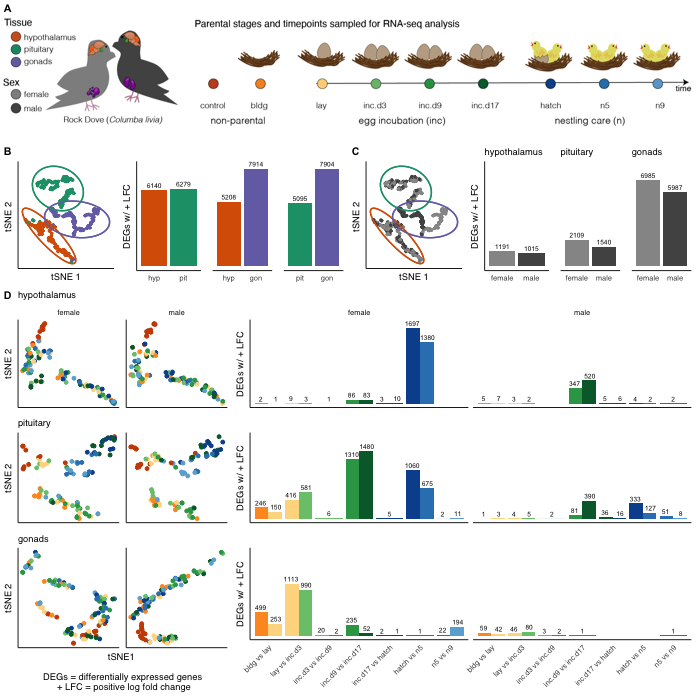
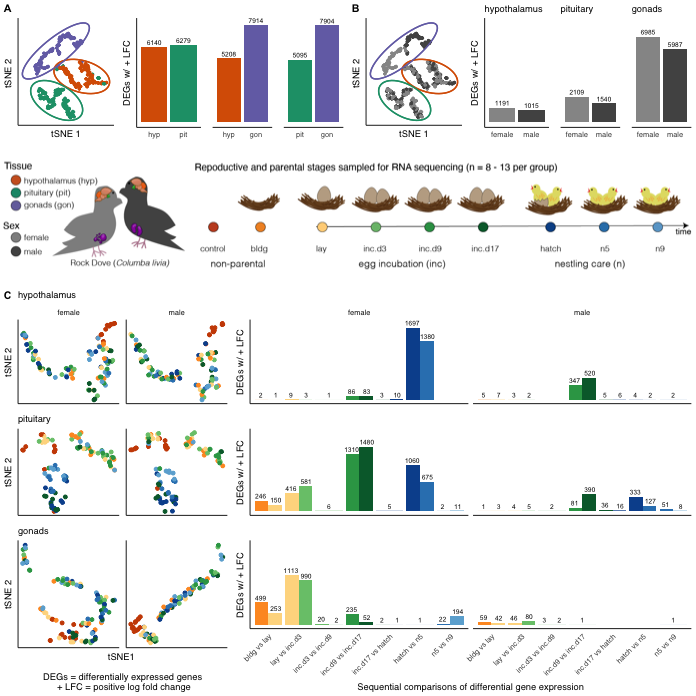
better fig 1

diff --git a/analysis/figure-1.md b/analysis/figure-1.md
@@ -165,7 +165,7 @@ Treatment specific DEGs
     ## 5 female hypothalam… control_lay    control   A2ML1 -0.674  1.39e-2    1.86
     ## 6 female hypothalam… control_n5     control   A2ML1 -0.583  3.35e-2    1.47
 
-    write_csv(suppltable2, "../results/suppltable1.csv")
+    write_csv(suppltable2, "../results/suppltable2.csv")
 
 Sex and Tissue -related DEGs
 ----------------------------
@@ -229,7 +229,7 @@ Figure 1
     ## [1] 12972
 
     bc <- plot_grid(b1,b2,b3,b4, c1,c2,c3,c4, nrow = 1, rel_widths = c(1.5,1.1,0.9,0.9,1.5,1.1,0.9,0.9),
-                    labels = c("B", "", "", "", "C"), label_size = 8)
+                    labels = c("A", "", "", "", "B"), label_size = 8)
 
     d1 <- plottsneelipsev2(hyptsne, hyptsne$treatment, allcolors) + 
       labs(x = NULL, subtitle = "hypothalamus")  + 
@@ -252,12 +252,13 @@ Figure 1
             strip.text.x = element_blank())   
     d6 <- makebargraph(DEGchar, "gonad","DEGs w/ + LFC", 0, 1800) +  
       theme(strip.text.x = element_blank()) +
-      scale_x_discrete(labels = comparisonlabelschar)
-    d <- plot_grid(d1,d2,d3,d4,d5,d6, ncol = 2, rel_heights = c(1,0.9,1.3), rel_widths = c(1,2),
-                      labels = c("D"), label_size = 8)
+      scale_x_discrete(labels = comparisonlabelschar) +
+      labs(x = "Sequential comparisons of differential gene expression")
 
-    fig1 <- plot_grid(a,bc, d, nrow = 3, rel_heights = c(0.7,0.7,2),
-                      labels = c("A"), label_size = 8)
+    d <- plot_grid(d1,d2,d3,d4,d5,d6, ncol = 2, rel_heights = c(1,0.9,1.4), rel_widths = c(1,2),
+                      labels = c("C"), label_size = 8)
+
+    fig1 <- plot_grid(bc, a, d, nrow = 3, rel_heights = c(0.7,0.7,2))
     fig1
 
 ![](../figures/fig1-1.png)
@@ -322,6 +323,9 @@ suppl fig 1 controls versus bldg
 
     ## quartz_off_screen 
     ##                 2
+
+Save files
+----------
 
     # save file for musical genes https://raynamharris.shinyapps.io/musicalgenes/
     #write.csv(allDEG, "../../musicalgenes/data/allDEG.csv")
